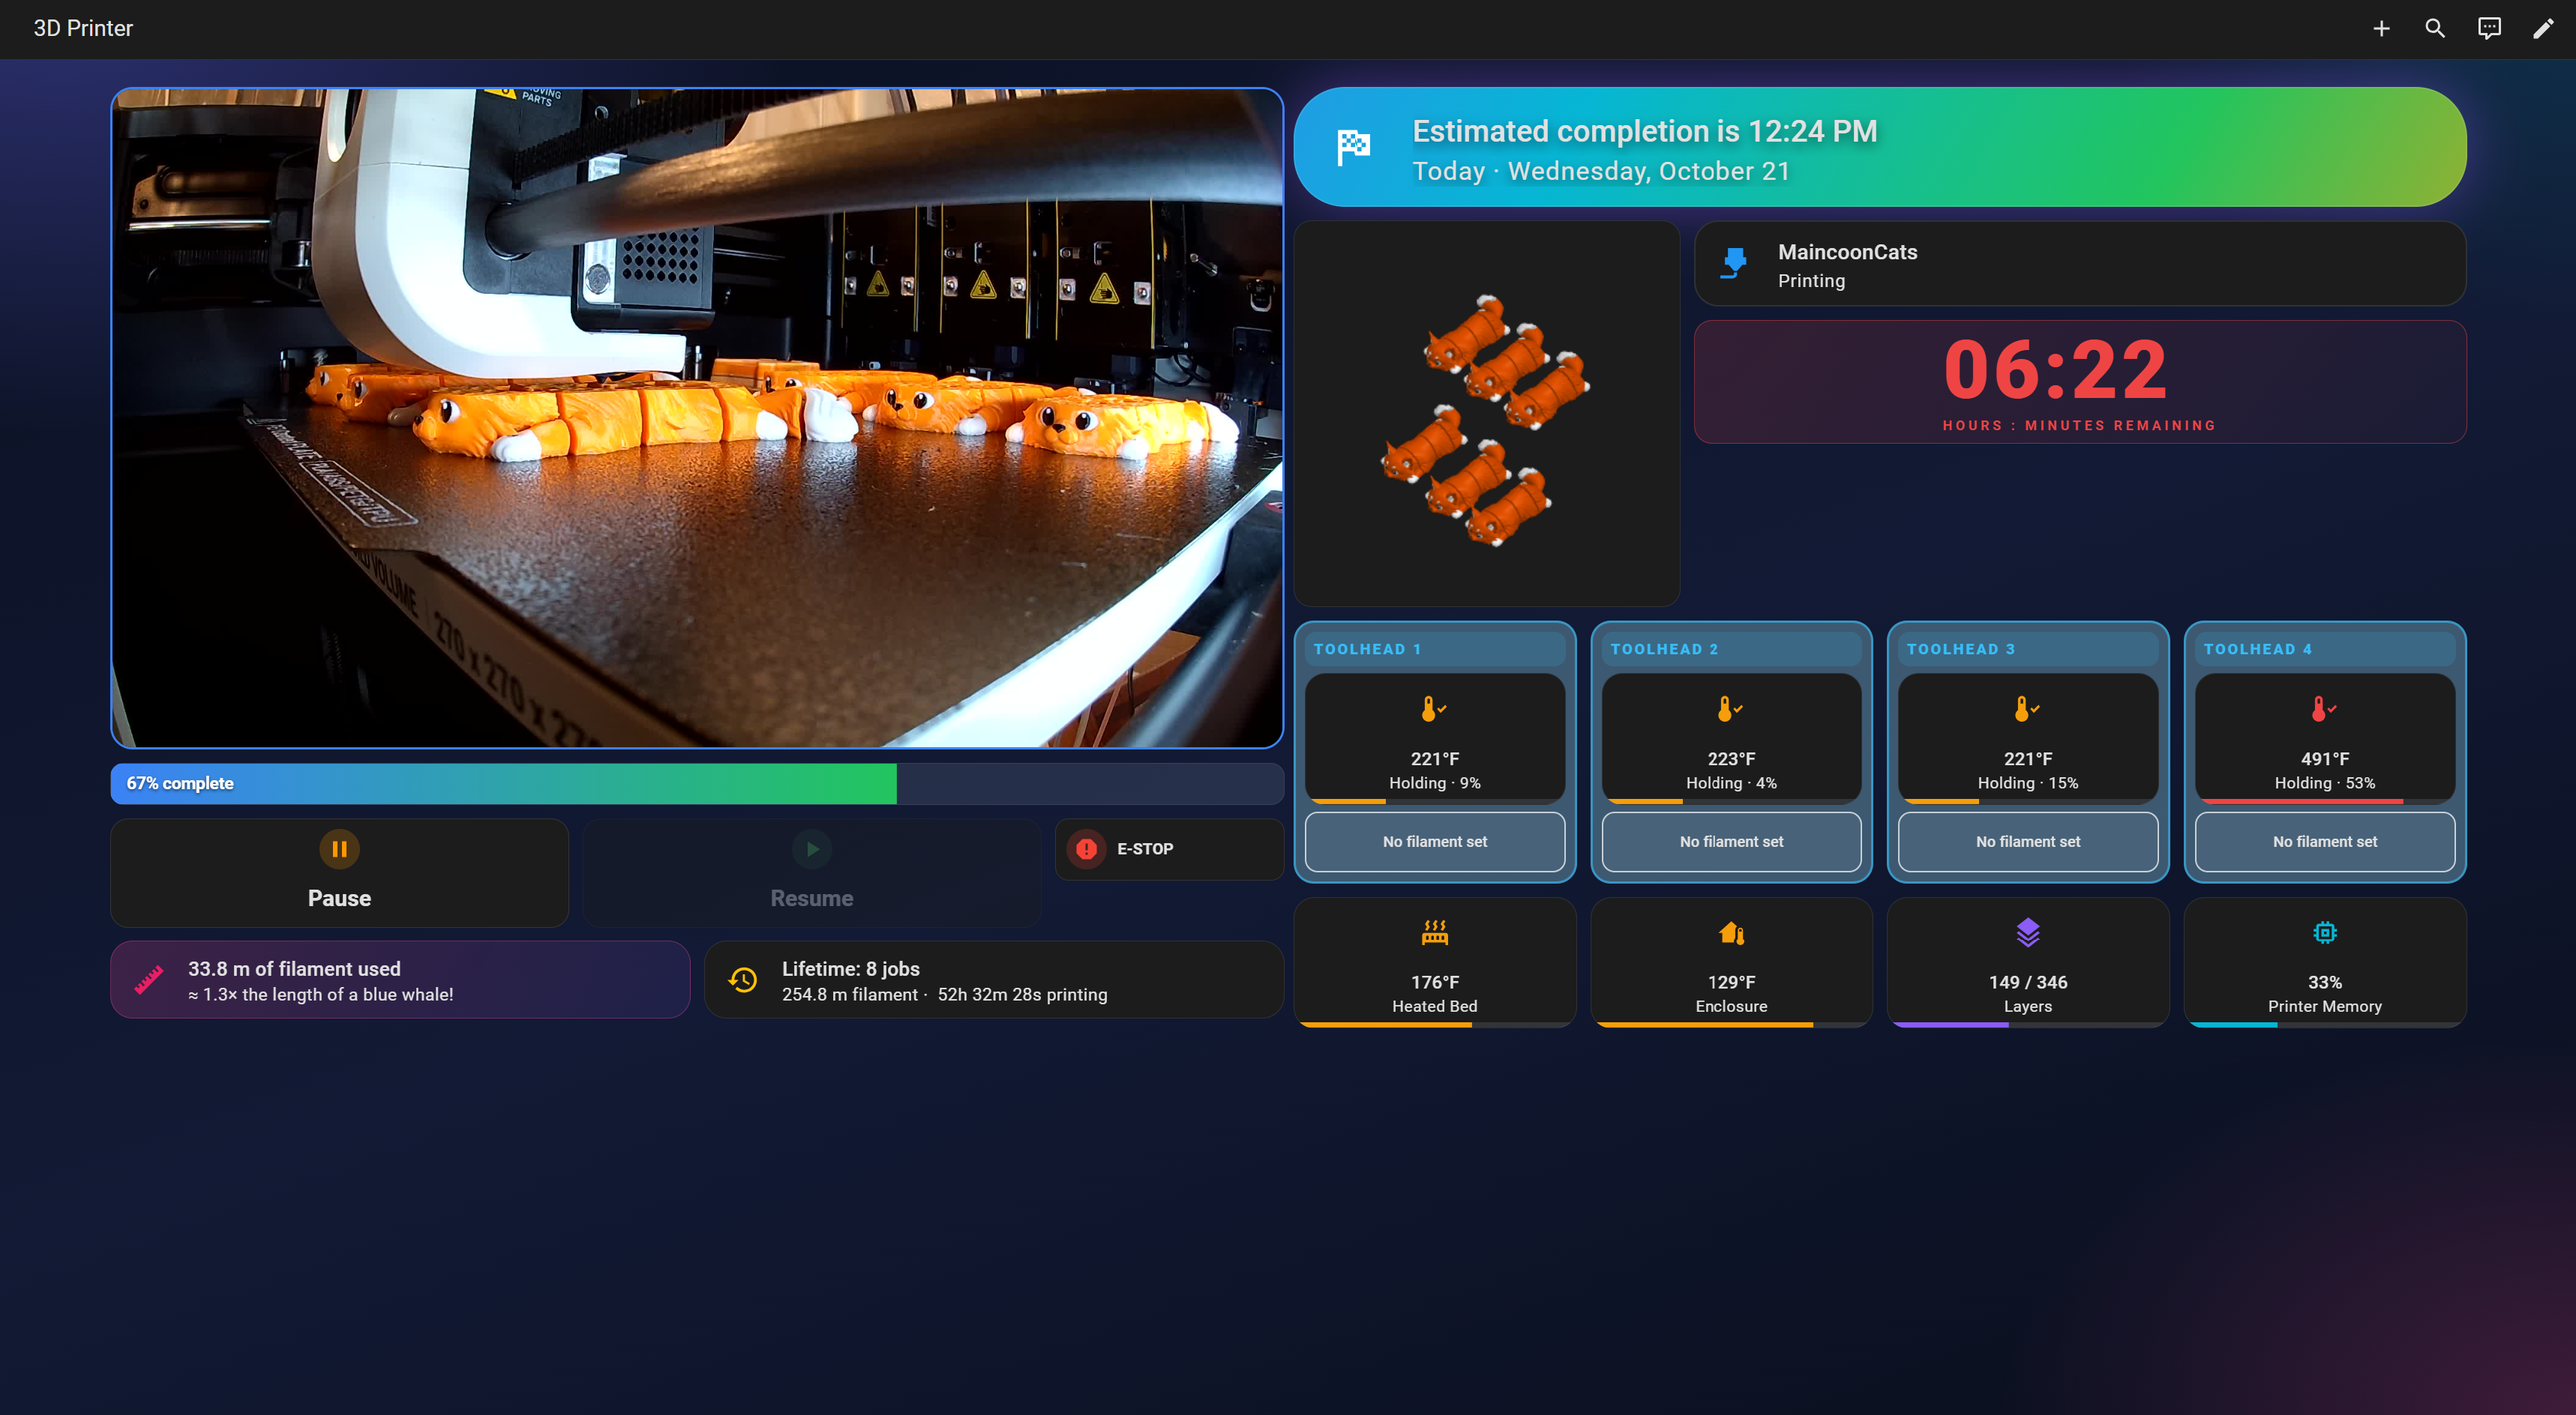
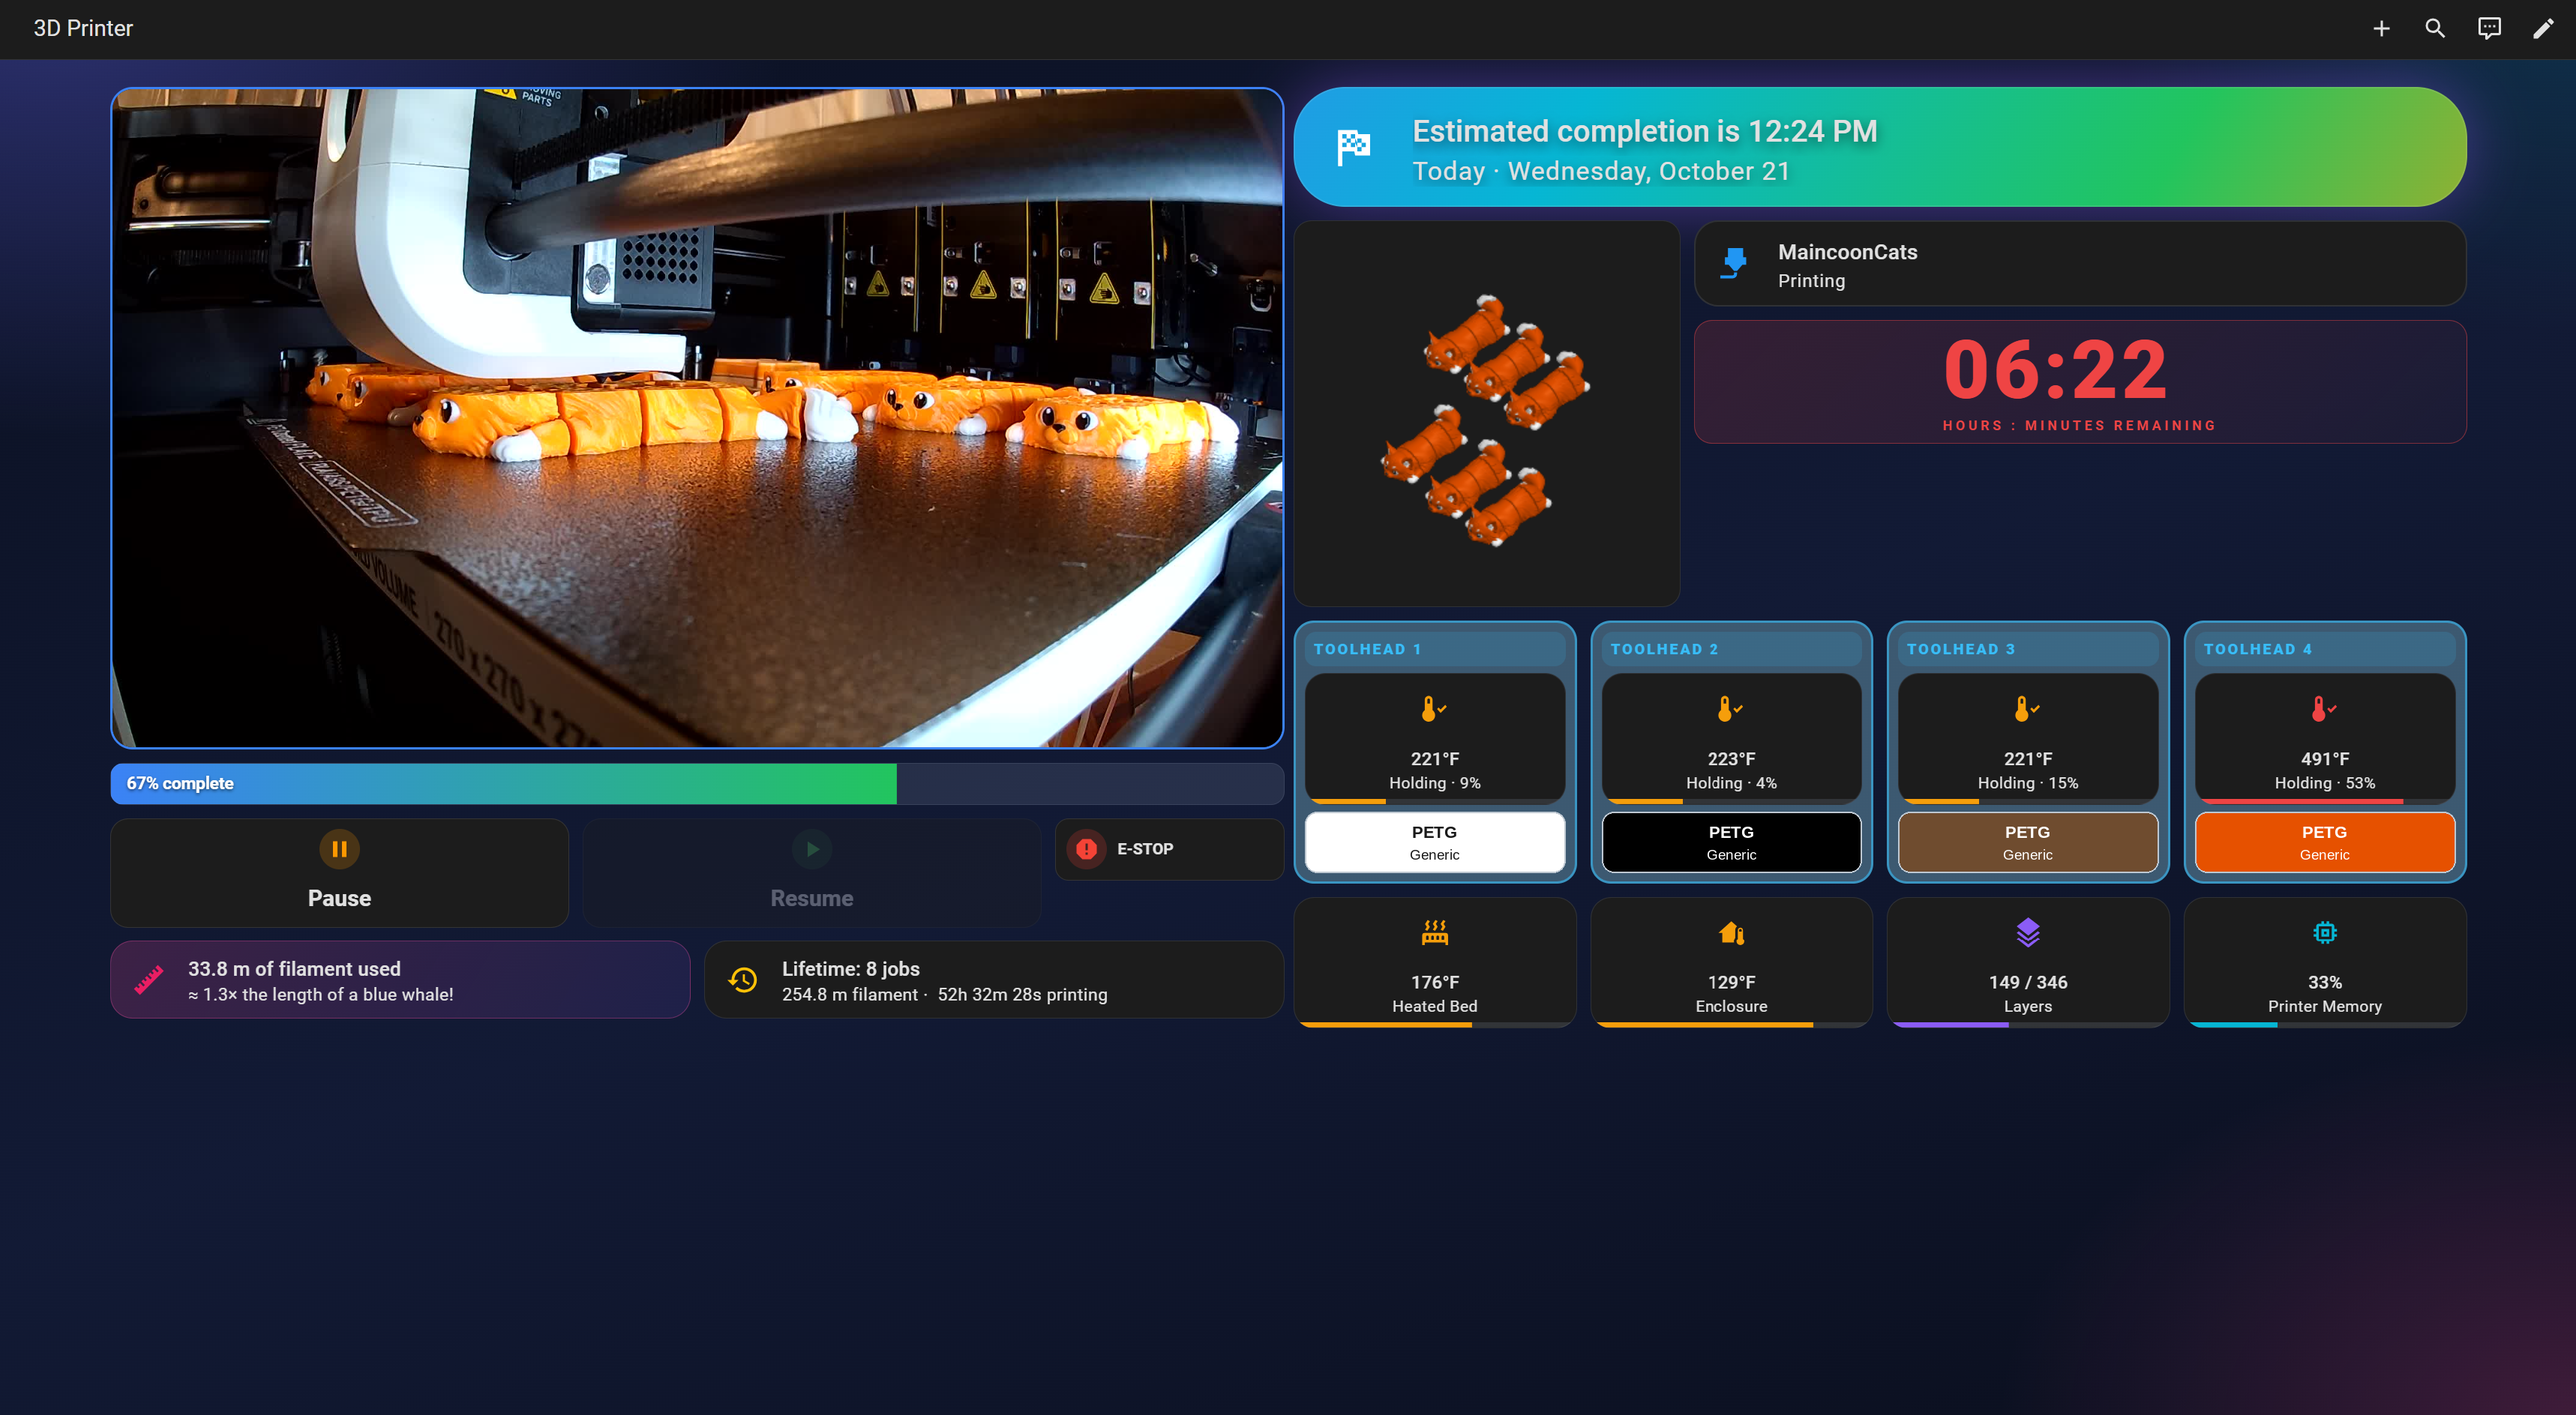
v1.0.2: desktop screenshot shows filament color, type and vendor
Claude-Session: https://claude.ai/code/session_01Qfz5f3LG2gno6nszH9ncUE

Changed region(s): [[0.4984, 0.5625, 0.9656, 0.625]]

diff --git a/README.md b/README.md
@@ -9,7 +9,7 @@ in each toolhead, bed-cooling progress, a print-stage banner, and email/phone/sp
 |---|---|
 | ![Desktop dashboard](docs/images/dashboard-desktop.png) | ![Phone dashboard](docs/images/dashboard-phone.png) |
 
-*(Screenshots show an earlier build; the background color is a one-line setting and several cards have been refined since. See [docs/background_options.html](docs/background_options.html) for 8 background choices.)*
+*(Screenshots are for illustration; the desktop image's filament boxes are composited from the phone capture. Your dashboard may differ slightly, and the background color is a one-line setting. See [docs/background_options.html](docs/background_options.html) for 8 background choices.)*
 
 ## What you get
 

diff --git a/CHANGELOG.md b/CHANGELOG.md
@@ -2,6 +2,9 @@
 
 Every change to this repo is committed with a version bump (semantic versioning: MAJOR.MINOR.PATCH). The current version is in [`VERSION`](VERSION).
 
+## 1.0.2
+- Docs: desktop screenshot now shows filament type and vendor (PETG, Generic) and colors in each toolhead box; README screenshot note updated.
+
 ## 1.0.1
 - Dashboards: the status card beside the thumbnail no longer repeats the banner message. It now shows the job name and "Current job" (or "No active job" / "Snapmaker U1 is idle").
 
